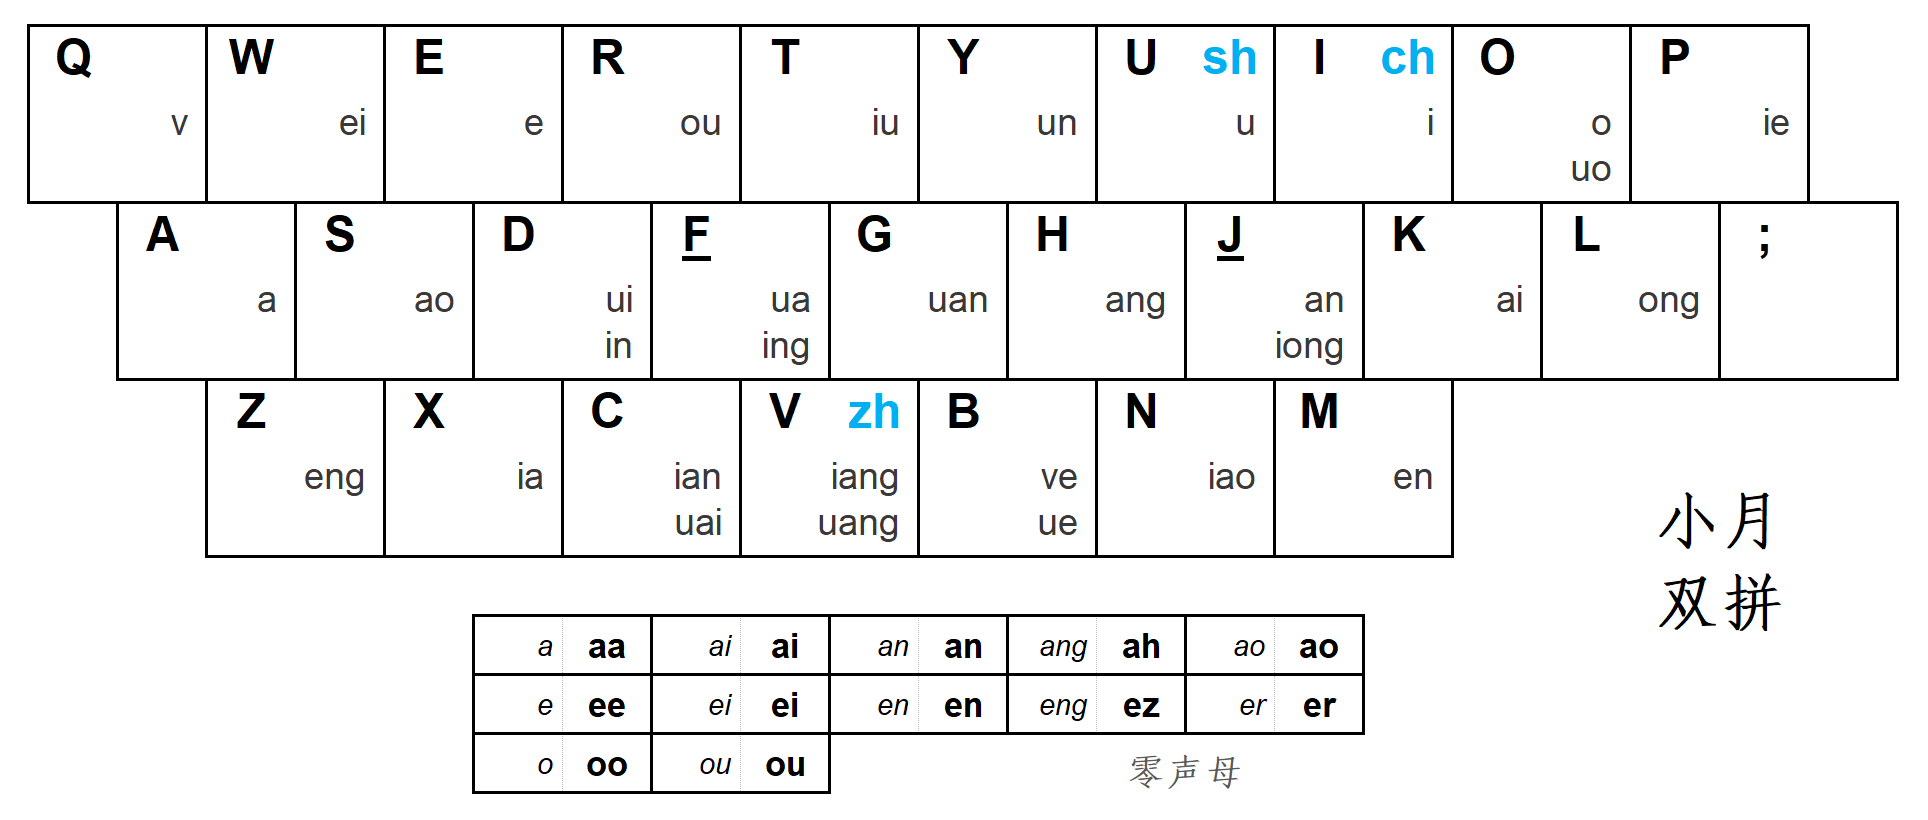
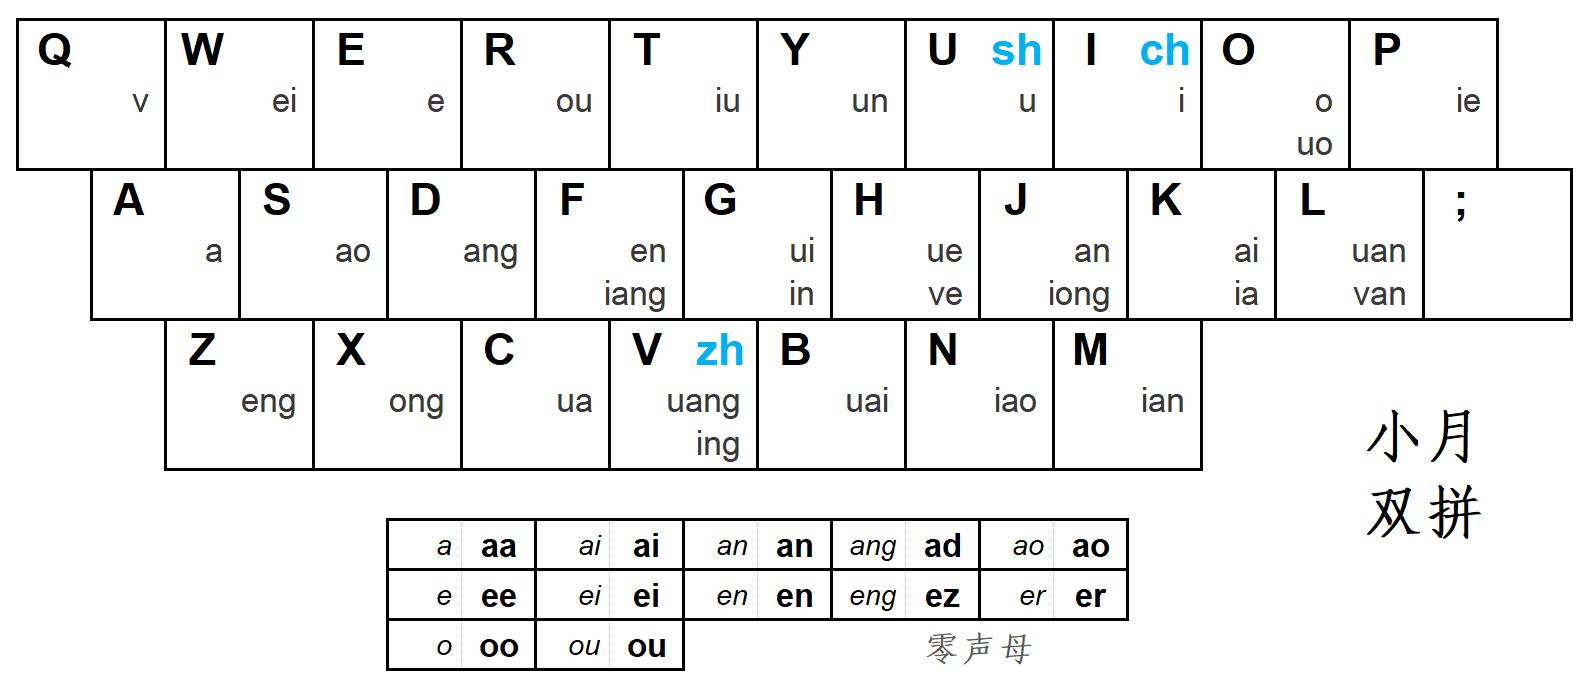
小月双拼

diff --git a/src/scheme/xiaoyue.js b/src/scheme/xiaoyue.js
@@ -4,7 +4,6 @@ Shuang.resource.scheme.xiaoyue = {
   id: 'xiaoyue',
   name: '小月双拼',
   tips: [
-    '方案改自小浪双拼',
     '常用输入法不内置'
   ],
   detail: {
@@ -37,42 +36,42 @@ Shuang.resource.scheme.xiaoyue = {
       a: 'a',
       ai: 'k',
       an: 'j',
-      ang: 'h',
+      ang: 'd',
       ao: 's',
       e: 'e',
       ei: 'w',
-      en: 'm',
+      en: 'f',
       eng: 'z',
       i: 'i',
-      ia: 'x',
-      ian: 'c',
-      iang: 'v',
+      ia: 'k',
+      ian: 'm',
+      iang: 'f',
       iao: 'n',
       ie: 'p',
       iong: 'j',
-      in: 'd',
-      ing: 'f',
+      in: 'g',
+      ing: 'v',
       iu: 't',
       o: 'o',
-      ong: 'l',
+      ong: 'x',
       ou: 'r',
       u: 'u',
-      ua: 'f',
-      uai: 'c',
-      uan: 'g',
+      ua: 'c',
+      uai: 'b',
+      uan: 'l',
       uang: 'v',
-      ue: 'b',
-      ui: 'd',
+      ue: 'h',
+      ui: 'g',
       un: 'y',
       uo: 'o',
       v: 'q',
-      ve: 'b'
+      ve: 'h'
     },
     other: {
       a: 'aa',
       ai: 'ai',
       an: 'an',
-      ang: 'ah',
+      ang: 'ad',
       ao: 'ao',
       e: 'ee',
       ei: 'ei',
